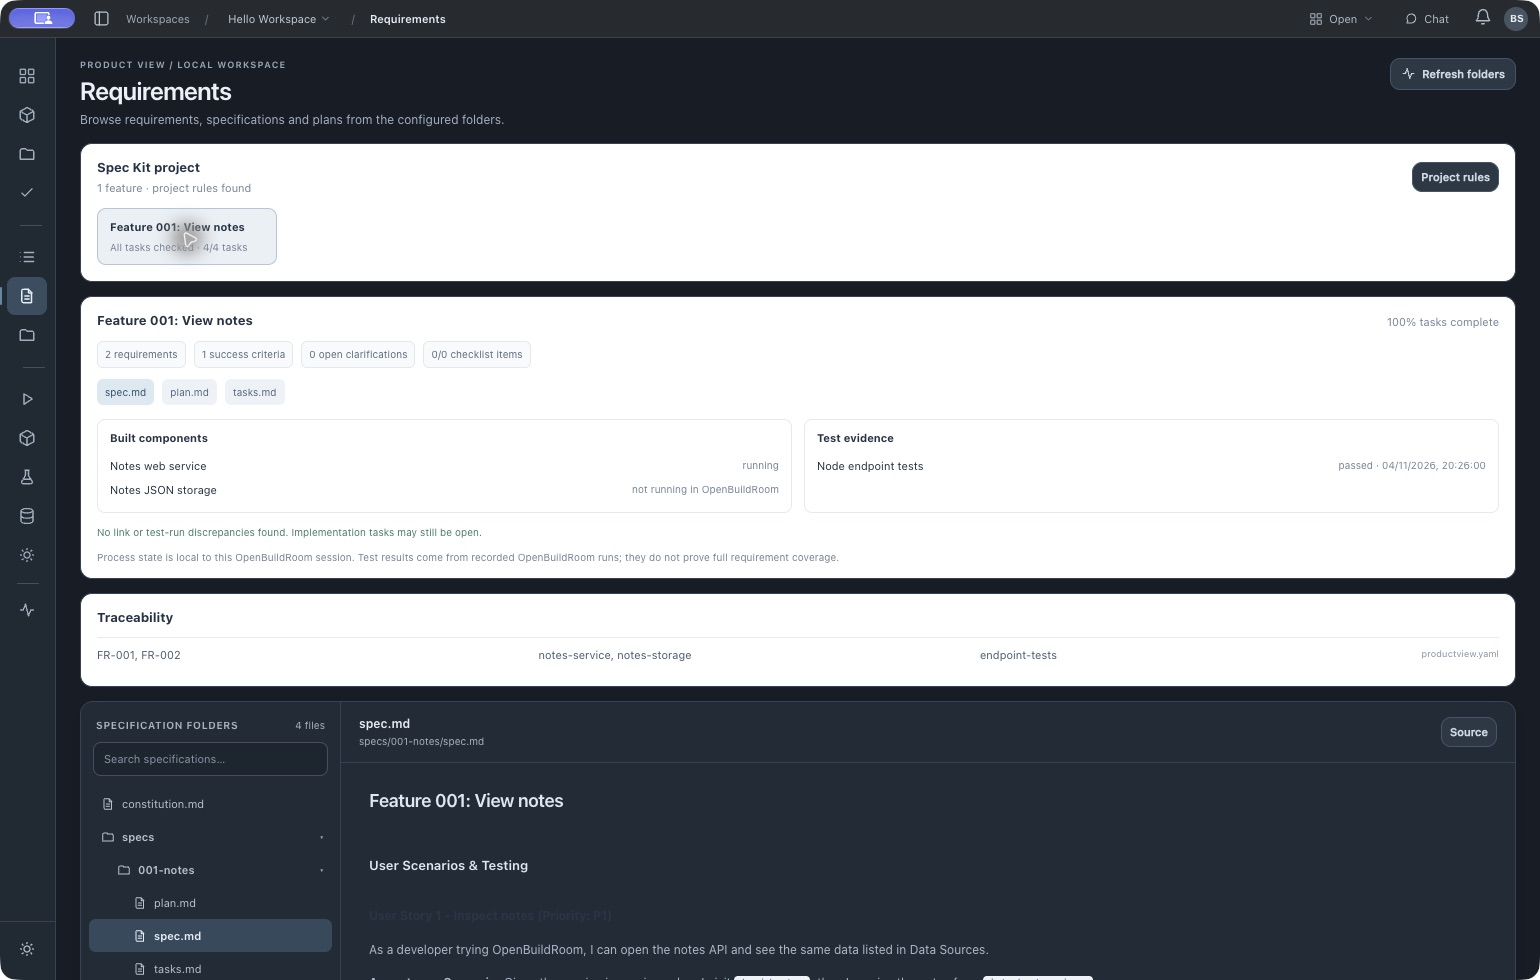
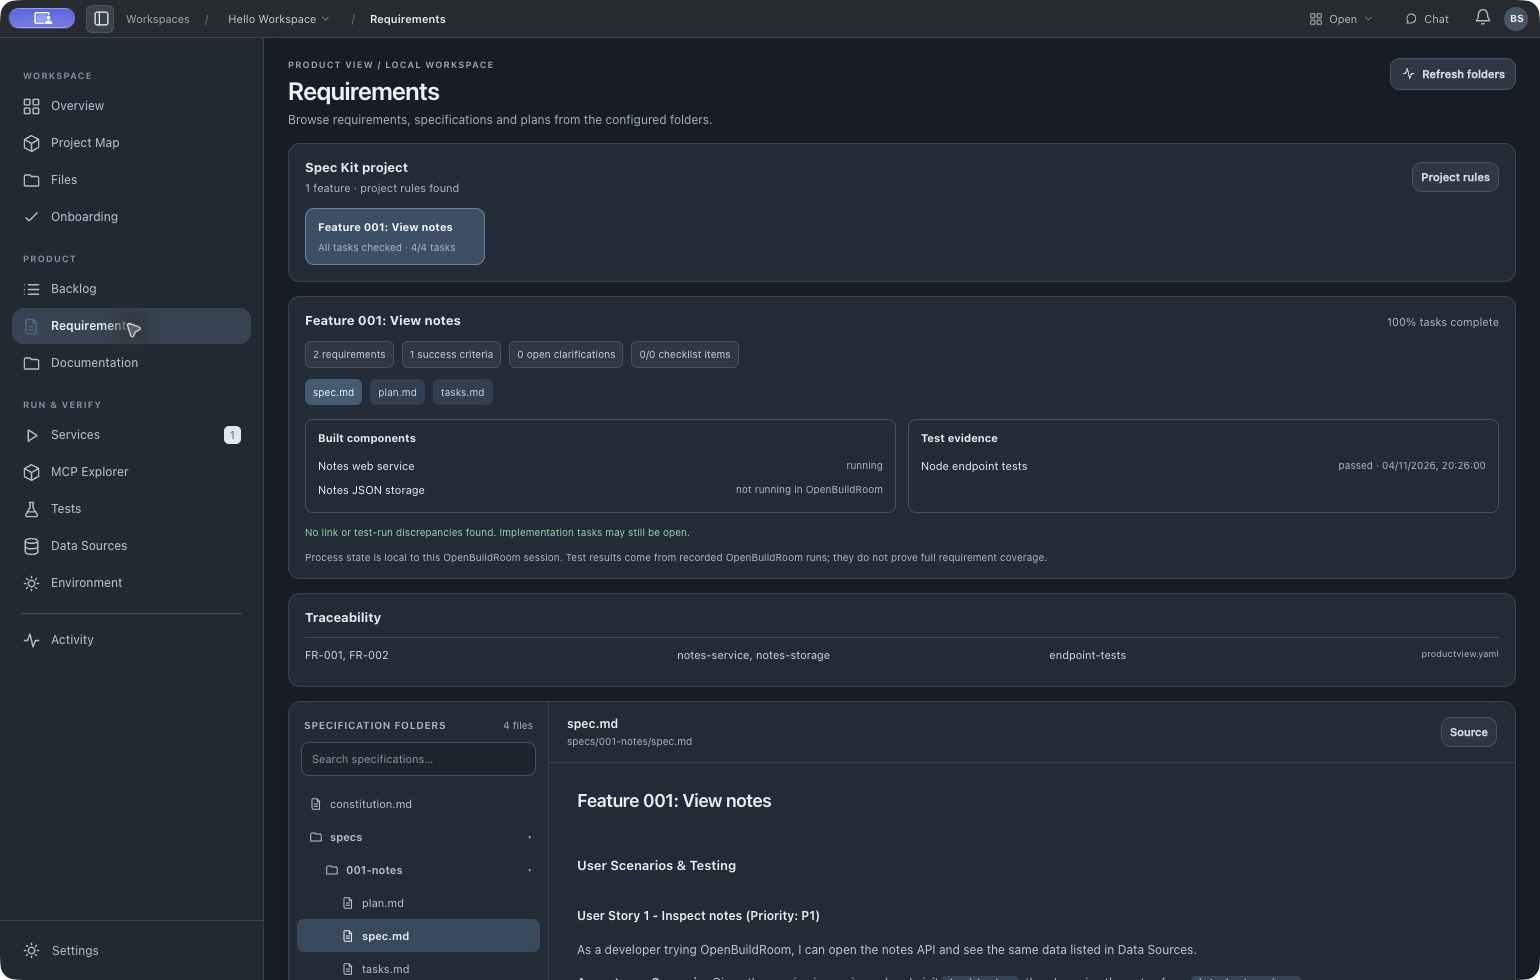
Fix Requirements dark theme and refresh screenshot

diff --git a/dist/cursor-shell.css b/dist/cursor-shell.css
@@ -254,3 +254,36 @@ body.cursor-shell:not(.sidebar-expanded)[data-theme="dark"] .sidebar #nav .nav-s
 .docs-browser-empty{display:flex;flex-direction:column;align-items:center;justify-content:center;min-height:520px;padding:32px;text-align:center;color:var(--muted)}
 .docs-browser-empty strong{color:var(--ink);font-size:16px;font-weight:620}
 .docs-browser-empty p{max-width:360px;margin:8px 0 18px;font-size:12px;line-height:1.5}
+
+/* Requirements: Spec Kit summaries and evidence use the same dark surfaces as the reader. */
+body[data-theme="dark"] .spec-kit-summary,
+body[data-theme="dark"] .spec-kit-detail{background:#222c37;border-color:#364455;color:#e4edf5}
+body[data-theme="dark"] .spec-kit-heading span,
+body[data-theme="dark"] .spec-kit-detail-head span,
+body[data-theme="dark"] .spec-kit-generic span,
+body[data-theme="dark"] .spec-kit-feature small,
+body[data-theme="dark"] .spec-kit-empty,
+body[data-theme="dark"] .spec-kit-trace small,
+body[data-theme="dark"] .spec-kit-trace p,
+body[data-theme="dark"] .spec-kit-evidence-note,
+body[data-theme="dark"] .spec-kit-link small{color:#a7b8c8}
+body[data-theme="dark"] .spec-kit-feature{background:#2b3845;border-color:#415266;color:#e2ebf3}
+body[data-theme="dark"] .spec-kit-feature:hover,
+body[data-theme="dark"] .spec-kit-feature.active{background:#3a5065;border-color:#68849b;color:#f2f7fb}
+body[data-theme="dark"] .spec-kit-stats span{background:#2c3946;border-color:#405365;color:#c1d1df}
+body[data-theme="dark"] .spec-kit-artifacts button{background:#2e4051;color:#c5d7e7}
+body[data-theme="dark"] .spec-kit-artifacts button:hover,
+body[data-theme="dark"] .spec-kit-artifacts button.active{background:#415c73;color:#f1f7fc}
+body[data-theme="dark"] .spec-kit-trace>div{border-color:#405163}
+body[data-theme="dark"] .spec-kit-checks div{background:#2c3a47;color:#c2d2df}
+body[data-theme="dark"] .spec-kit-checks .warning{background:#493b29;color:#f1cc92}
+body[data-theme="dark"] .spec-kit-checks .error{background:#4a3033;color:#f0a5a7}
+body[data-theme="dark"] .spec-kit-clear{color:#8ed5b1}
+body[data-theme="dark"] .spec-kit-link{border-color:#3b4b5b;color:#c9d7e4}
+body[data-theme="dark"] .spec-reader-content .product-markdown{color:#b9c8d6}
+body[data-theme="dark"] .spec-reader-content .product-markdown h2,
+body[data-theme="dark"] .spec-reader-content .product-markdown h3,
+body[data-theme="dark"] .spec-reader-content .product-markdown h4{color:#e7eff6}
+body[data-theme="dark"] .spec-reader-content .product-markdown p{color:#b9c8d6}
+body[data-theme="dark"] .spec-reader-content .product-markdown code{background:#344657;color:#d9e9f6}
+body[data-theme="dark"] .spec-reader-content .product-markdown .product-bullet:before{color:#9cb9d1}

diff --git a/dist/index.html b/dist/index.html
@@ -228,7 +228,7 @@ body.sidebar-expanded .sidebar #nav .nav-section-label{display:block}
 @media(max-width:700px){.content,body.dashboard-page .content{padding:16px 14px 35px}.page-head h1,.dashboard-shell .page-head h1,.product-shell .page-head h1{font-size:23px}.settings-card{padding:14px;gap:10px}.product-intro{padding:16px}.product-primary-grid{gap:10px}.command-stage{padding:17px}.command-hero{padding:15px}}
 
 </style>
-<link rel="stylesheet" href="cursor-shell.css?v=0.9.27">
+<link rel="stylesheet" href="cursor-shell.css?v=0.9.46">
 <link rel="stylesheet" href="onboarding-page.css?v=0.9.23">
 </head>
 <body>

diff --git a/README.md b/README.md
@@ -10,7 +10,7 @@ The focused screenshot shows the **real included example** after starting its se
 
 ## Try it in five minutes
 
-1. Download the [Apple Silicon Mac preview (v0.9.45)](https://github.com/OpenBuildRoom/desktop/releases/download/v0.9.45/OpenBuildRoom-Desktop-0.9.45-arm64-mac.zip), unzip it, and move **OpenBuildRoom Desktop.app** to Applications. This preview is unsigned and unnotarized, so macOS may require an explicit open in **System Settings → Privacy & Security**.
+1. Download the [Apple Silicon Mac preview (v0.9.46)](https://github.com/OpenBuildRoom/desktop/releases/download/v0.9.46/OpenBuildRoom-Desktop-0.9.46-arm64-mac.zip), unzip it, and move **OpenBuildRoom Desktop.app** to Applications. This preview is unsigned and unnotarized, so macOS may require an explicit open in **System Settings → Privacy & Security**.
 2. Have [Node.js 20+](https://nodejs.org/) installed for the working example's service and tests. The desktop app itself does not require Node.js.
 3. Open the app and click **Try working example**. It copies a small project to `~/Documents/OpenBuildRoom Examples/hello-workspace` and opens it without starting anything.
 4. Start **Notes web service** in Services and open its local URL. Run **Node endpoint tests** in Tests. Inspect `notes.json` in Data Sources, then open the linked feature in Requirements.
